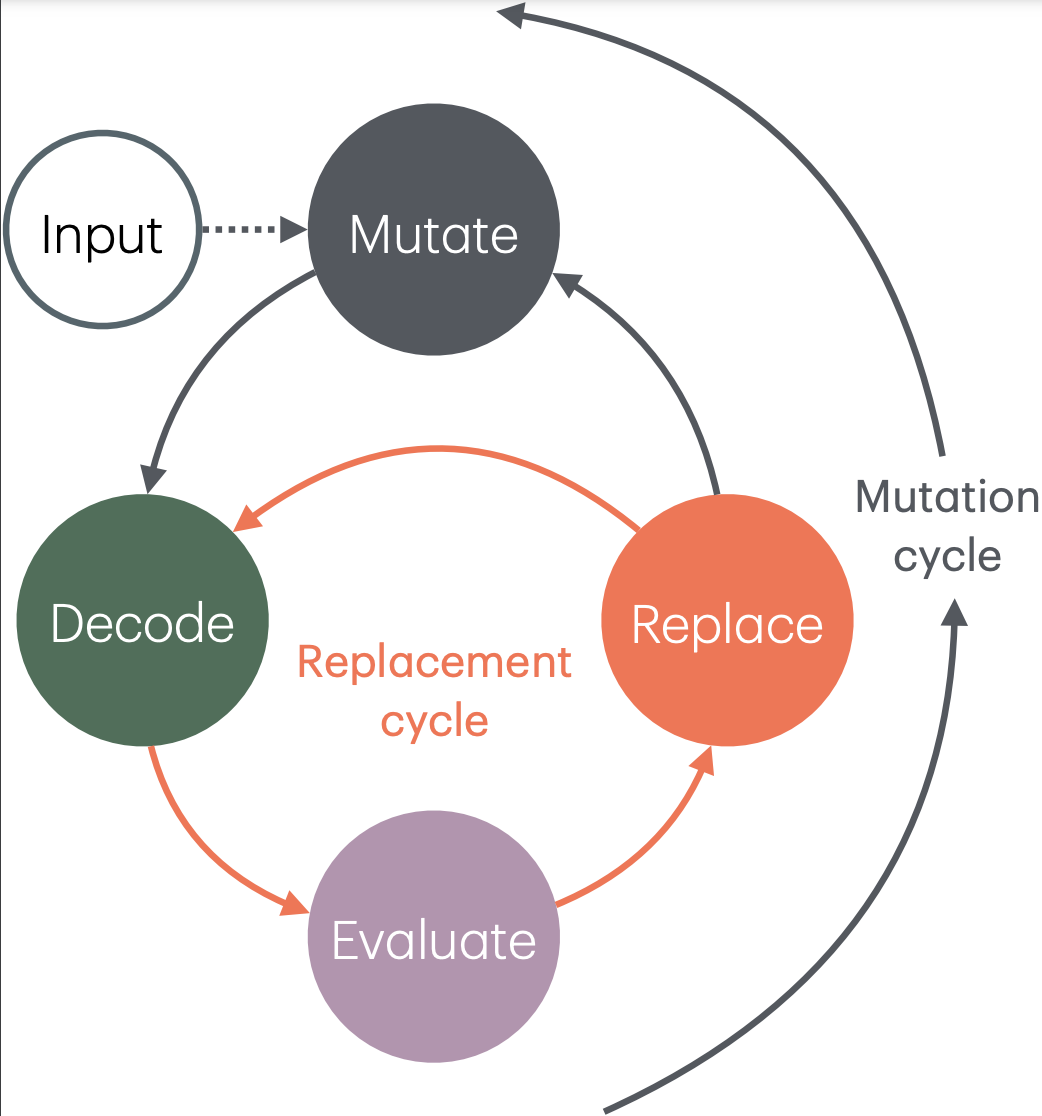
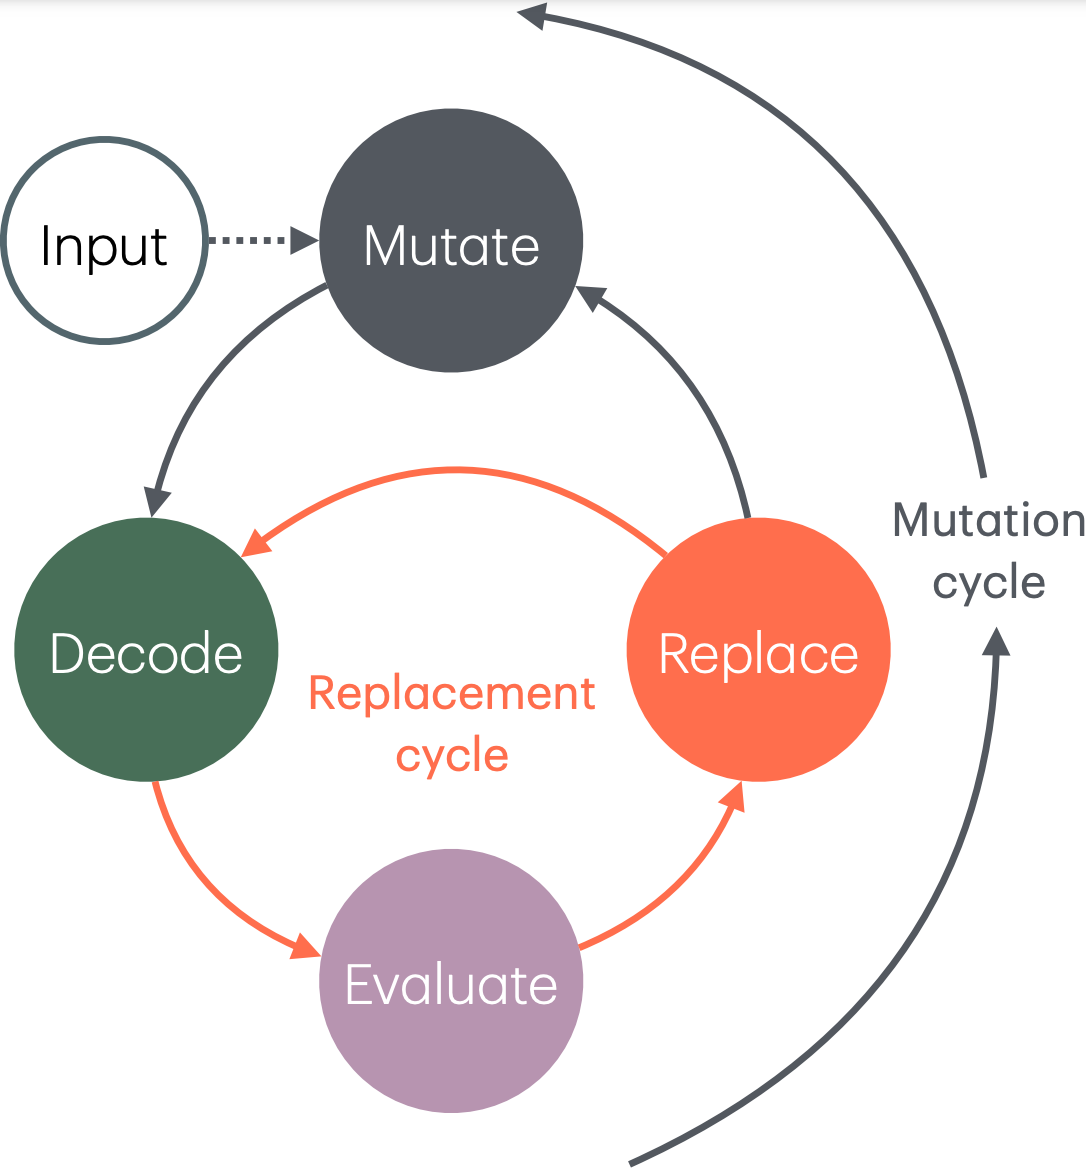
update

diff --git a/index.html b/index.html
@@ -88,9 +88,8 @@
   <div class="container is-max-desktop">
     <div class="hero-body">
       <h2 class="subtitle has-text-centered">
-        <span class="dnerf">DARWIN is a decode-time inference technique that uses a reward-guided tree search framework to align the LLM and achieve comparable performance to preference optimization on 2 instruction following benchmarks.</span> 
+        <span class="dnerf">DARWIN is a decode-time alignment technique that uses a reward-guided tree search framework to align the LLM and achieve comparable performance to preference optimization on 2 instruction following benchmarks.</span> 
       </h2>
-      <img src="static/images/darwin-flow.png" alt="BUFFET teaser.">
       <img src="static/images/darwin_overview.png" alt="BUFFET teaser.">
     </div>
   </div>
@@ -183,7 +182,7 @@
                 <h4 class="title is-8">(B) Replacement Exploitation Benefits Length Controlled(LC) Win Rate</h4> 
                 <p>Replacement Exploitation tends to generate shorter response compared to other methods, potentially due to exploring less states with exploitation. </p>
                 <h4 class="title is-8">(C) Exploration and Exploitation</h4>
-                <p>Darwin combines the advantage of exploration and exploitation, achieving a more concsistent WR and LC, demostrating the balance between both methods. Furthermore, with more iterations, Darwin's performance on both LC and WR consistently increase unlike other method that saturates quickly.</p>
+                <p>Darwin combines the advantage of exploration and exploitation, achieving a more consistent WR and LC, demostrating the balance between both methods. Furthermore, with more iterations, Darwin's performance on both LC and WR consistently increase unlike other method that saturates quickly.</p>
             </section>
       
 
